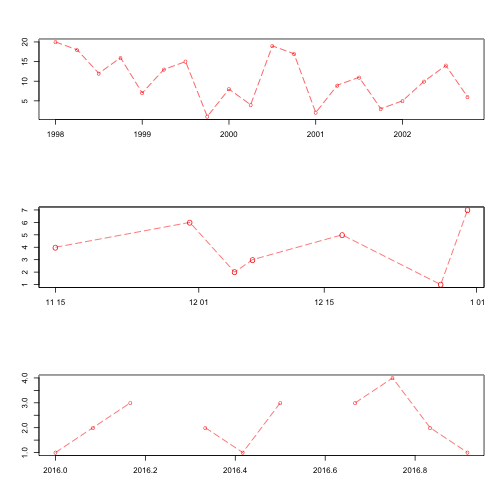
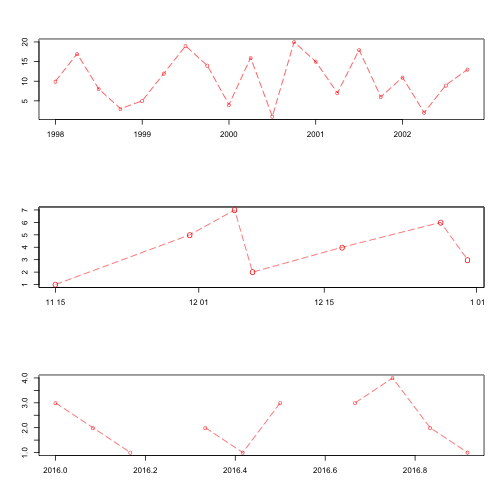
compile...

diff --git a/stat-time-series-eda.html b/stat-time-series-eda.html
@@ -65,11 +65,11 @@
 reg_ts_dat &lt;-<span class="st"> </span><span class="kw">ts</span>(<span class="kw">sample</span>(<span class="dv">20</span>), <span class="dt">frequency =</span> <span class="dv">4</span> , <span class="dt">start=</span> <span class="dv">1998</span>)
 reg_ts_dat</code></pre></div>
 <pre class="output"><code>     Qtr1 Qtr2 Qtr3 Qtr4
-1998   20   18   12   16
-1999    7   13   15    1
-2000    8    4   19   17
-2001    2    9   11    3
-2002    5   10   14    6
+1998   10   17    8    3
+1999    5   12   19   14
+2000    4   16    1   20
+2001   15    7   18    6
+2002   11    2    9   13
 </code></pre>
 <div class="sourceCode"><pre class="sourceCode r"><code class="sourceCode r"><span class="kw">plot</span>(reg_ts_dat, <span class="dt">type=</span><span class="st">&quot;o&quot;</span>, <span class="dt">lty=</span><span class="dv">5</span>, <span class="dt">lwd=</span><span class="fl">0.8</span>, <span class="dt">pch=</span><span class="st">&quot;O&quot;</span>, <span class="dt">col=</span><span class="dv">2</span>, <span class="dt">xlab=</span><span class="st">&quot;&quot;</span>, <span class="dt">ylab=</span><span class="st">&quot;&quot;</span>)
 
@@ -112,9 +112,91 @@ ts_dat &lt;-<span class="st"> </span><span class="kw">ts</span>(dat, <span class
 <div class="panel-body">
 <p>월드는 정상성을 갖는 모든 시계열 데이터는 백색잡음의 선형결합으로 표현될 수 있다는 것을 증명하여 노벨상을 수상했다.</p>
 <p><span class="math inline">\(X_t = W_t + a_1 W_{t-1} + a_2 W_{t-2} + \cdots\)</span></p>
-<p>ARMA 모형은 월드 분해정리를 따르는 잘 따라서 시계열 데이터를 모형화하기 적합하다.</p>
+<p><span class="math inline">\(W_i\)</span>는 백색잡음, ARMA 모형은 월드 분해정리에 따라 시계열 데이터를 모형화하기 적합하다.</p>
 </div>
 </aside>
+<h2 id="시계열-데이터-분석-흐름-time-series-concept-example">시계열 데이터 분석 흐름 <a href="#fn1" class="footnoteRef" id="fnref1"><sup>1</sup></a></h2>
+<p>시계열 데이터를 분석하기 위해서 가장 먼저 문자형과 숫자형으로 준비된 데이터프레임을 시간자료구조를 포함한 적절한 데이터프레임으로 변환하는 과정이 필요하다. 시계열 데이터프레임이 준비되면 시각화를 통해 시계열 데이터 상태를 파악하고 정상 시계열 데이터로 변화하는 과정에 전념한다.</p>
+<p><img src="fig/stat-time-series-workflow.png" alt="시계열 데이터 분석 흐름" width="77%" /></p>
+<aside class="callout panel panel-info">
+<div class="panel-heading">
+<h3 id="정상성stationarity과-약정상성weak-stationarity"><span class="glyphicon glyphicon-pushpin"></span>정상성(Stationarity)과 약정상성(Weak Stationarity)</h3>
+</div>
+<div class="panel-body">
+<p>정상성을 갖는 시계열 데이터는 랜덤한 움직임을 갖지만 시점마다 유사하게 동작하는 특징이 있어 시간에 따라 안정된 분포를 갖는다. 약정상성은 시간에 따라 일정한 평균, 분산, 공분산을 갖는 확률과정으로 정의된다. 즉, 시계열 데이터 $Y_1 , Y_2 , $이 다음을 세가지 조건을 충족하면 된다.</p>
+<ul>
+<li>시계열 <span class="math inline">\(Y_t\)</span> 모든 시점 <span class="math inline">\(t\)</span>에 대해 평균이 <span class="math inline">\(\mu\)</span>로 같다.</li>
+<li>시계열 <span class="math inline">\(Y_t\)</span> 모든 시점 <span class="math inline">\(t\)</span>에 대해 분산이 <span class="math inline">\(\sigma^2\)</span>로 같다.</li>
+<li>시계열 <span class="math inline">\(Y_t\)</span>, <span class="math inline">\(Y_s\)</span> 모든 <span class="math inline">\(h\)</span>에 대해 공분산이 <span class="math inline">\(|t-s| = h\)</span>로 같다; 예를 들어, 6단위 만큼 차이가 나서 <span class="math inline">\(Cov(Y_1, Y_7 ) = Cov(Y_11 , Y_17 )\)</span>.</li>
+</ul>
+<p>특히, 정상성을 갖는 데이터는 절약성 원칙(Principle of Parsimony)에 따라 적은 모수만을 사용하여 모형을 만들 수 있는 장점이 있다.</p>
+</div>
+</aside>
+<div class="sourceCode"><pre class="sourceCode r"><code class="sourceCode r"><span class="kw">par</span>(<span class="dt">mfrow=</span><span class="kw">c</span>(<span class="dv">2</span>,<span class="dv">3</span>))
+
+<span class="co"># 백색잡음 시계열 -----------------------------------------------------------</span>
+y_t &lt;-<span class="st"> </span><span class="kw">rnorm</span>(<span class="dv">100</span>, <span class="dt">mean=</span><span class="dv">0</span>, <span class="dt">sd=</span><span class="dv">1</span>)
+
+<span class="kw">ts.plot</span>(y_t, <span class="dt">main=</span><span class="st">&quot;백색잡음(White Noise)&quot;</span>,<span class="dt">xlab=</span><span class="st">&quot;시간(time)&quot;</span>, <span class="dt">col=</span><span class="st">&quot;blue&quot;</span>, <span class="dt">lwd=</span><span class="dv">2</span>)
+<span class="kw">abline</span>(<span class="dt">h=</span><span class="dv">0</span>)
+
+<span class="co"># 추세를 갖는 시계열--------------------------------------------------</span>
+e &lt;-<span class="st"> </span><span class="kw">rnorm</span>(<span class="dv">100</span>, <span class="dv">0</span>, <span class="dv">10</span>)
+trend_yt &lt;-<span class="st"> </span><span class="fl">0.5</span>*<span class="kw">seq</span>(<span class="dv">1</span>,<span class="dv">100</span>) +<span class="st"> </span>e
+
+<span class="kw">ts.plot</span>(trend_yt, <span class="dt">lwd=</span><span class="dv">2</span>, <span class="dt">col=</span><span class="st">&quot;blue&quot;</span>, <span class="dt">main=</span><span class="st">&quot;추세를 갖는 시계열&quot;</span>)
+<span class="kw">abline</span>(<span class="dt">a=</span><span class="dv">0</span>, <span class="dt">b=</span><span class="fl">0.5</span>)
+
+<span class="co"># 랜덤워크 시계열 -----------------------------------------------------------</span>
+
+e &lt;-<span class="st"> </span><span class="kw">rnorm</span>(<span class="dv">100</span>)
+rw_yt &lt;-<span class="st"> </span><span class="kw">cumsum</span>(e)
+<span class="kw">ts.plot</span>(rw_yt, <span class="dt">lwd=</span><span class="dv">2</span>, <span class="dt">col=</span><span class="st">&quot;blue&quot;</span>, <span class="dt">main=</span><span class="st">&quot;랜덤워크 시계열&quot;</span>)
+<span class="kw">abline</span>(<span class="dt">h=</span><span class="dv">0</span>)
+
+<span class="co"># 분산이 커지는 시계열 -----------------------------------------------------------</span>
+e &lt;-<span class="st"> </span><span class="kw">sapply</span>(<span class="dv">1</span>:<span class="dv">100</span>, function(x) <span class="kw">rnorm</span>(<span class="dv">1</span>, <span class="dt">sd =</span> <span class="dv">2</span>*x/<span class="dv">100</span>))
+var_yt &lt;-<span class="st"> </span><span class="fl">0.1</span>*<span class="kw">seq</span>(<span class="dv">1</span>,<span class="dv">100</span>) +<span class="st"> </span>e
+
+<span class="kw">ts.plot</span>(var_yt, <span class="dt">lwd=</span><span class="dv">2</span>, <span class="dt">col=</span><span class="st">&quot;blue&quot;</span>, <span class="dt">main=</span><span class="st">&quot;추세와 분산이 커지는 시계열&quot;</span>)
+<span class="kw">abline</span>(<span class="dt">a=</span><span class="dv">0</span>, <span class="dt">b=</span><span class="fl">0.1</span>)
+
+<span class="co"># 평균이 증가하는 시계열 -----------------------------------------------------------</span>
+mean_yt &lt;-<span class="st"> </span><span class="kw">c</span>(<span class="kw">rnorm</span>(<span class="dv">50</span>), <span class="kw">rnorm</span>(<span class="dv">50</span>, <span class="dv">5</span>))
+
+<span class="kw">ts.plot</span>(mean_yt, <span class="dt">lwd=</span><span class="dv">2</span>, <span class="dt">col=</span><span class="st">&quot;blue&quot;</span>, <span class="dt">main=</span><span class="st">&quot;평균이 변화하는 시계열&quot;</span>)
+<span class="kw">abline</span>(<span class="dt">a=</span><span class="dv">0</span>, <span class="dt">b=</span><span class="dv">0</span>) 
+<span class="kw">abline</span>(<span class="dt">a=</span><span class="dv">5</span>, <span class="dt">b=</span><span class="dv">0</span>)
+
+
+<span class="co"># 분산이 변화하는 시계열 -----------------------------------------------------------</span>
+var_change_yt &lt;-<span class="st"> </span><span class="kw">c</span>(<span class="kw">rnorm</span>(<span class="dv">150</span>,<span class="dv">0</span>,<span class="dv">1</span>), <span class="kw">rnorm</span>(<span class="dv">200</span>,<span class="dv">0</span>,<span class="dv">10</span>), <span class="kw">rnorm</span>(<span class="dv">150</span>,<span class="dv">0</span>,<span class="dv">1</span>))
+
+<span class="kw">ts.plot</span>(var_change_yt, <span class="dt">lwd=</span><span class="dv">2</span>, <span class="dt">col=</span><span class="st">&quot;blue&quot;</span>, <span class="dt">main=</span><span class="st">&quot;분산이 변화하는 시계열&quot;</span>)
+<span class="kw">abline</span>(<span class="dt">a=</span><span class="dv">0</span>, <span class="dt">b=</span><span class="dv">0</span>) </code></pre></div>
+<p><img src="fig/time-series-concept-1.png" title="plot of chunk time-series-concept" alt="plot of chunk time-series-concept" style="display: block; margin: auto;" /></p>
+<table>
+<thead>
+<tr class="header">
+<th align="left">백색잡음</th>
+<th align="left">추세를 갖는 시계열</th>
+<th align="left">랜덤워크 시계열</th>
+</tr>
+</thead>
+<tbody>
+<tr class="odd">
+<td align="left">추세와 분산이 커지는 시계열</td>
+<td align="left">평균이 변화하는 시계열</td>
+<td align="left">분산이 변화하는 시계열</td>
+</tr>
+</tbody>
+</table>
+<div class="footnotes">
+<hr />
+<ol>
+<li id="fn1"><p><a href="http://stackoverflow.com/questions/33522442/stationarity-tests-in-r-checking-mean-variance-and-covariance">Stationarity Tests in R, checking mean, variance and covariance</a><a href="#fnref1">↩</a></p></li>
+</ol>
+</div>
         </div>
       </div>
       </article>

diff --git a/stat-time-series-eda.md b/stat-time-series-eda.md
@@ -42,11 +42,11 @@ reg_ts_dat
 
 ~~~{.output}
      Qtr1 Qtr2 Qtr3 Qtr4
-1998   20   18   12   16
-1999    7   13   15    1
-2000    8    4   19   17
-2001    2    9   11    3
-2002    5   10   14    6
+1998   10   17    8    3
+1999    5   12   19   14
+2000    4   16    1   20
+2001   15    7   18    6
+2002   11    2    9   13
 
 ~~~
 
@@ -97,8 +97,82 @@ plot(ts_dat, type="o", lty=5, lwd=0.7, pch="O", col=2, xlab="", ylab="")
 > 
 > $X_t = W_t + a_1 W_{t-1} + a_2 W_{t-2} + \cdots$  
 >  
-> ARMA 모형은 월드 분해정리를 따르는 잘 따라서 시계열 데이터를 모형화하기 적합하다.
+> $W_i$는 백색잡음, ARMA 모형은 월드 분해정리에 따라 시계열 데이터를 모형화하기 적합하다.
+
+## 시계열 데이터 분석 흐름 [^time-series-concept-example]
+
+[^time-series-concept-example]: [Stationarity Tests in R, checking mean, variance and covariance](http://stackoverflow.com/questions/33522442/stationarity-tests-in-r-checking-mean-variance-and-covariance)
+
+시계열 데이터를 분석하기 위해서 가장 먼저 문자형과 숫자형으로 준비된 데이터프레임을 시간자료구조를 포함한 
+적절한 데이터프레임으로 변환하는 과정이 필요하다. 
+시계열 데이터프레임이 준비되면 시각화를 통해 시계열 데이터 상태를 파악하고 정상 시계열 데이터로 변화하는 과정에 전념한다.
+
+<img src="fig/stat-time-series-workflow.png" alt="시계열 데이터 분석 흐름" width="77%" />
 
 
+> ### 정상성(Stationarity)과 약정상성(Weak Stationarity) {.callout}
+> 
+> 정상성을 갖는 시계열 데이터는 랜덤한 움직임을 갖지만 시점마다 유사하게 동작하는 특징이 있어 시간에 따라 안정된 분포를 갖는다.
+> 약정상성은 시간에 따라 일정한 평균, 분산, 공분산을 갖는 확률과정으로 정의된다. 즉, 시계열 데이터 $Y_1 , Y_2 , \cdots $이 다음을 세가지 
+> 조건을 충족하면 된다.
+> 
+> - 시계열 $Y_t$ 모든 시점 $t$에 대해 평균이 $\mu$로 같다.
+> - 시계열 $Y_t$ 모든 시점 $t$에 대해 분산이 $\sigma^2$로 같다.
+> - 시계열 $Y_t$, $Y_s$ 모든 $h$에 대해 공분산이 $|t-s| = h$로 같다; 예를 들어, 6단위 만큼 차이가 나서 $Cov(Y_1, Y_7 ) = Cov(Y_11 , Y_17 )$.
+> 
+> 특히, 정상성을 갖는 데이터는 절약성 원칙(Principle of Parsimony)에 따라 적은 모수만을 사용하여 모형을 만들 수 있는 장점이 있다.
+
+
+
+~~~{.r}
+par(mfrow=c(2,3))
+
+# 백색잡음 시계열 -----------------------------------------------------------
+y_t <- rnorm(100, mean=0, sd=1)
+
+ts.plot(y_t, main="백색잡음(White Noise)",xlab="시간(time)", col="blue", lwd=2)
+abline(h=0)
+
+# 추세를 갖는 시계열--------------------------------------------------
+e <- rnorm(100, 0, 10)
+trend_yt <- 0.5*seq(1,100) + e
+
+ts.plot(trend_yt, lwd=2, col="blue", main="추세를 갖는 시계열")
+abline(a=0, b=0.5)
+
+# 랜덤워크 시계열 -----------------------------------------------------------
+
+e <- rnorm(100)
+rw_yt <- cumsum(e)
+ts.plot(rw_yt, lwd=2, col="blue", main="랜덤워크 시계열")
+abline(h=0)
+
+# 분산이 커지는 시계열 -----------------------------------------------------------
+e <- sapply(1:100, function(x) rnorm(1, sd = 2*x/100))
+var_yt <- 0.1*seq(1,100) + e
+
+ts.plot(var_yt, lwd=2, col="blue", main="추세와 분산이 커지는 시계열")
+abline(a=0, b=0.1)
+
+# 평균이 증가하는 시계열 -----------------------------------------------------------
+mean_yt <- c(rnorm(50), rnorm(50, 5))
+
+ts.plot(mean_yt, lwd=2, col="blue", main="평균이 변화하는 시계열")
+abline(a=0, b=0) 
+abline(a=5, b=0)
+
+
+# 분산이 변화하는 시계열 -----------------------------------------------------------
+var_change_yt <- c(rnorm(150,0,1), rnorm(200,0,10), rnorm(150,0,1))
+
+ts.plot(var_change_yt, lwd=2, col="blue", main="분산이 변화하는 시계열")
+abline(a=0, b=0) 
+~~~
+
+<img src="fig/time-series-concept-1.png" title="plot of chunk time-series-concept" alt="plot of chunk time-series-concept" style="display: block; margin: auto;" />
+
+|   백색잡음   | 추세를 갖는 시계열 |   랜덤워크 시계열   |
+|--------------|--------------------|---------------------|
+| 추세와 분산이 커지는 시계열 | 평균이 변화하는 시계열 | 분산이 변화하는 시계열 |
 
 
